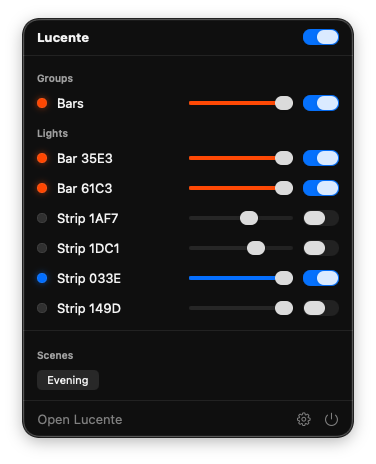
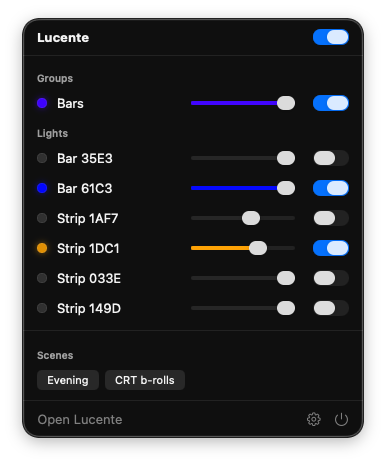
style(ui): wider slider-to-switch gap; align stacked level sliders
Menu bar rows get an 18 pt gap between the brightness slider and the power
switch (and the panel 10 pt more width), so a drag that overshoots never lands
on the switch. In the main window, level sliders used LabeledContent, so each
track started wherever its label ended and Speed and Brightness had different
widths; labels now sit in a fixed column and every track lines up.

diff --git a/App/Views/Components.swift b/App/Views/Components.swift
@@ -67,8 +67,11 @@ struct Swatch: View {
 }
 
 /// A slider that reports every change while dragging, but doesn't let incoming state updates
-/// yank the thumb out from under the pointer.
+/// yank the thumb out from under the pointer. Labels get a fixed column so stacked sliders
+/// (white, speed, brightness) share one track width.
 struct LevelSlider: View {
+    static let labelWidth: CGFloat = 84
+
     var title: LocalizedStringKey
     var value: Int?
     var range: ClosedRange<Double> = 0...100
@@ -80,7 +83,10 @@ struct LevelSlider: View {
     @State private var editing = false
 
     var body: some View {
-        LabeledContent(title) {
+        HStack(spacing: 8) {
+            Text(title)
+                .lineLimit(1)
+                .frame(width: Self.labelWidth, alignment: .leading)
             HStack(spacing: 8) {
                 Image(systemName: minimumSymbol).foregroundStyle(.secondary).frame(width: 18)
                 Slider(value: $local, in: range, onEditingChanged: { editing = $0 })
@@ -96,6 +102,8 @@ struct LevelSlider: View {
                     .frame(width: 30, alignment: .trailing)
             }
         }
+        .accessibilityElement(children: .contain)
+        .accessibilityLabel(Text(title))
         .onAppear { local = Double(value ?? 100) }
         .onChange(of: value) { _, new in if !editing, let new { local = Double(new) } }
     }

diff --git a/App/Views/MenuBarPanel.swift b/App/Views/MenuBarPanel.swift
@@ -91,7 +91,7 @@ struct MenuBarPanel: View {
             .padding(.horizontal, 14)
             .padding(.vertical, 10)
         }
-        .frame(width: 330)
+        .frame(width: 340)
     }
 }
 
@@ -138,6 +138,7 @@ private struct PanelRow: View {
             .frame(width: Self.sliderWidth)
             if capabilities.contains(.power) {
                 PowerToggle(isOn: state.power == true) { send(.power($0)) }
+                    .padding(.leading, 8) // a clear gap so a slider drag never lands on the switch
             }
         }
         .frame(minHeight: 28)
